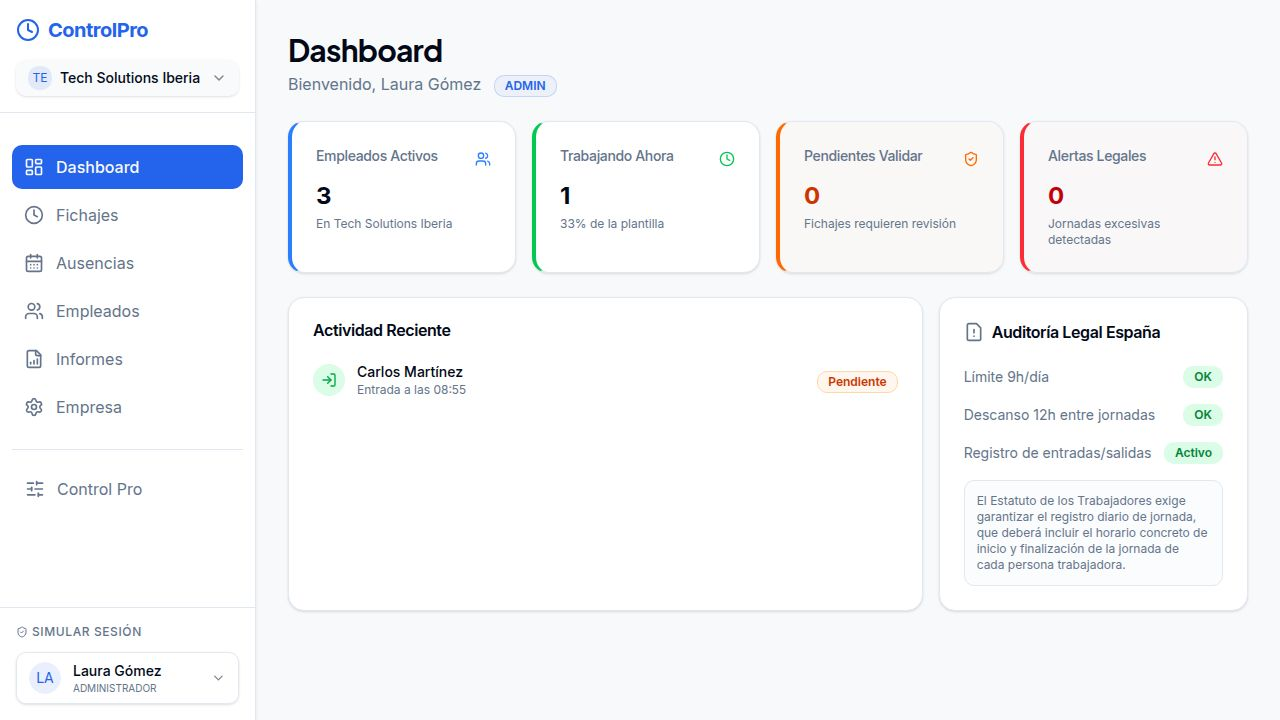
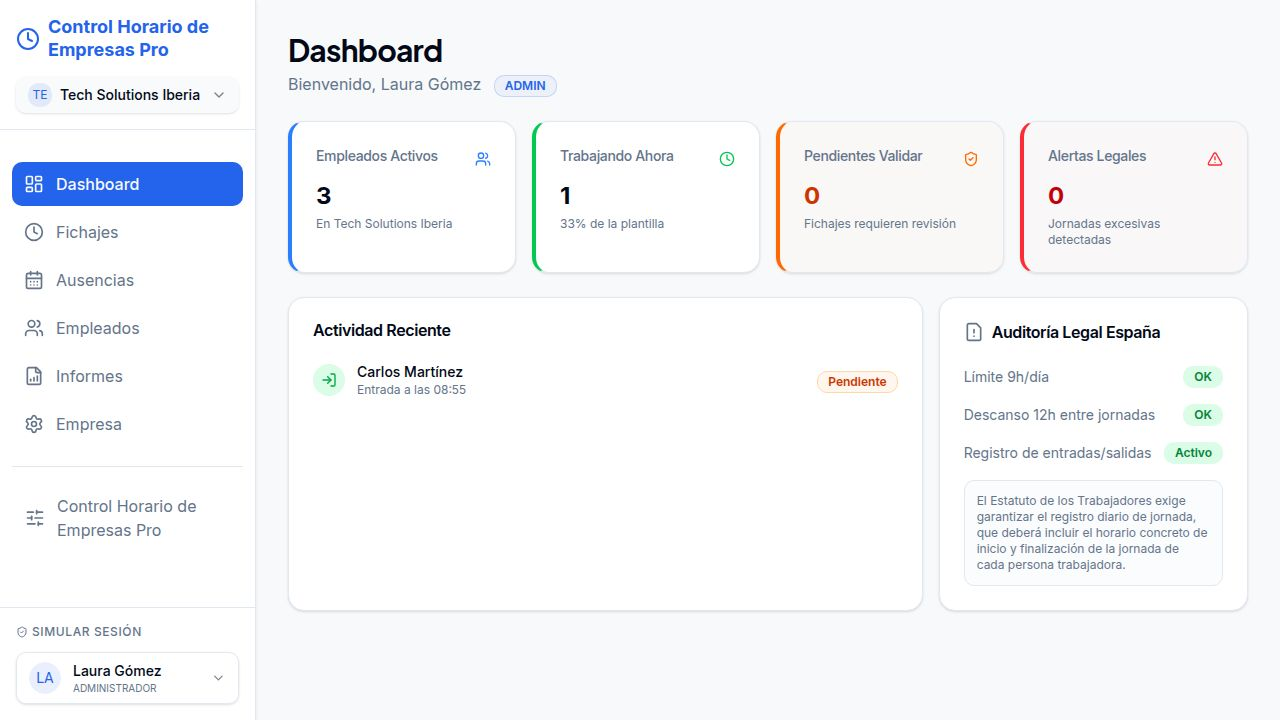
Add employee schedules and secure access to the Pro module
Integrate employee-specific scheduling, enhance time entry logging with actions translated to Spanish, implement a password-protected "Control Horario de Empresas Pro" module, and refine the navigation menu.

Replit-Commit-Author: Agent
Replit-Commit-Session-Id: 719027b1-ccf5-43b5-aaea-f9eb90c4ddaa
Replit-Commit-Checkpoint-Type: full_checkpoint
Replit-Commit-Event-Id: 038b4247-c132-490f-a925-9e4ece964372
Replit-Commit-Screenshot-Url: https://storage.googleapis.com/screenshot-production-us-central1/4b1fff70-26a4-4160-b81a-3a7b542f9264/719027b1-ccf5-43b5-aaea-f9eb90c4ddaa/D9nqyp7
Replit-Helium-Checkpoint-Created: true

diff --git a/client/src/pages/Employees.tsx b/client/src/pages/Employees.tsx
@@ -48,11 +48,42 @@ export default function Employees() {
   const [newEmp, setNewEmp] = useState<Partial<Employee>>({
     name: '', email: '', role: '', department: '', active: true, joinDate: new Date().toISOString().split('T')[0], systemRole: 'employee', weeklyHours: 40
   });
+  
+  const [scheduleType, setScheduleType] = useState<'company' | 'custom'>('company');
+  const [customSchedule, setCustomSchedule] = useState<Partial<Schedule>>({
+    monday: '09:00-14:00,15:00-18:00',
+    tuesday: '09:00-14:00,15:00-18:00',
+    wednesday: '09:00-14:00,15:00-18:00',
+    thursday: '09:00-14:00,15:00-18:00',
+    friday: '08:00-15:00',
+    saturday: '',
+    sunday: ''
+  });
 
   const isSupervisor = currentUser?.systemRole === 'admin' || currentUser?.systemRole === 'supervisor';
 
   const handleAdd = () => {
     if (!activeCompany) return;
+    
+    let assignedScheduleId = schedules?.find(s => s.companyId === activeCompany.id)?.id || '';
+    
+    if (scheduleType === 'custom') {
+      const newSchedule: Schedule = {
+        id: 's' + Date.now(),
+        name: `Horario Personalizado - ${newEmp.name}`,
+        companyId: activeCompany.id,
+        monday: customSchedule.monday || '',
+        tuesday: customSchedule.tuesday || '',
+        wednesday: customSchedule.wednesday || '',
+        thursday: customSchedule.thursday || '',
+        friday: customSchedule.friday || '',
+        saturday: customSchedule.saturday || '',
+        sunday: customSchedule.sunday || ''
+      };
+      setSchedules([...schedules, newSchedule]);
+      assignedScheduleId = newSchedule.id;
+    }
+    
     const emp: Employee = {
       id: 'e' + Date.now(),
       companyId: activeCompany.id,
@@ -62,13 +93,14 @@ export default function Employees() {
       department: newEmp.department || '',
       systemRole: newEmp.systemRole as any || 'employee',
       weeklyHours: newEmp.weeklyHours || 40,
-      scheduleId: schedules?.filter(s => s.companyId === activeCompany.id)[0]?.id || '',
+      scheduleId: assignedScheduleId,
       joinDate: newEmp.joinDate || '',
       active: true,
     };
     setEmployees([...(employees || []), emp]);
     setIsDialogOpen(false);
     setNewEmp({name: '', email: '', role: '', department: '', active: true, joinDate: new Date().toISOString().split('T')[0], systemRole: 'employee', weeklyHours: 40});
+    setScheduleType('company');
     toast({ title: "Empleado añadido", description: "El empleado ha sido registrado correctamente." });
   };
 
@@ -141,6 +173,37 @@ export default function Employees() {
                   <Label>Fecha de Incorporación</Label>
                   <Input type="date" value={newEmp.joinDate} onChange={e => setNewEmp({...newEmp, joinDate: e.target.value})} />
                 </div>
+                
+                <div className="space-y-3 pt-2 border-t">
+                  <Label className="text-base">Configuración de Horario</Label>
+                  <Select value={scheduleType} onValueChange={(v: 'company' | 'custom') => setScheduleType(v)}>
+                    <SelectTrigger><SelectValue /></SelectTrigger>
+                    <SelectContent>
+                      <SelectItem value="company">Horario principal de la empresa</SelectItem>
+                      <SelectItem value="custom">Horario personalizado para este empleado</SelectItem>
+                    </SelectContent>
+                  </Select>
+                  
+                  {scheduleType === 'custom' && (
+                    <div className="grid grid-cols-[80px_1fr] gap-2 items-center bg-secondary/20 p-3 rounded-md text-sm mt-2">
+                      <Label className="text-xs">Lunes</Label>
+                      <Input value={customSchedule.monday} onChange={e => setCustomSchedule({...customSchedule, monday: e.target.value})} className="h-8 text-xs font-mono" />
+                      
+                      <Label className="text-xs">Martes</Label>
+                      <Input value={customSchedule.tuesday} onChange={e => setCustomSchedule({...customSchedule, tuesday: e.target.value})} className="h-8 text-xs font-mono" />
+                      
+                      <Label className="text-xs">Miércoles</Label>
+                      <Input value={customSchedule.wednesday} onChange={e => setCustomSchedule({...customSchedule, wednesday: e.target.value})} className="h-8 text-xs font-mono" />
+                      
+                      <Label className="text-xs">Jueves</Label>
+                      <Input value={customSchedule.thursday} onChange={e => setCustomSchedule({...customSchedule, thursday: e.target.value})} className="h-8 text-xs font-mono" />
+                      
+                      <Label className="text-xs">Viernes</Label>
+                      <Input value={customSchedule.friday} onChange={e => setCustomSchedule({...customSchedule, friday: e.target.value})} className="h-8 text-xs font-mono" />
+                    </div>
+                  )}
+                </div>
+
                 <Button onClick={handleAdd} className="w-full mt-4">Guardar Empleado</Button>
               </div>
             </DialogContent>

diff --git a/client/src/components/Layout.tsx b/client/src/components/Layout.tsx
@@ -1,4 +1,5 @@
 import { Link, useLocation } from "wouter";
+import { useState } from "react";
 import { 
   LayoutDashboard, 
   Users, 
@@ -28,6 +29,7 @@ import { Avatar, AvatarFallback, AvatarImage } from "@/components/ui/avatar";
 
 export function Layout({ children }: { children: React.ReactNode }) {
   const [location] = useLocation();
+  const [sheetOpen, setSheetOpen] = useState(false);
   const { activeCompany, setActiveCompanyId, companies } = useActiveCompany();
   const { currentUser, setCurrentUserId, employees } = useCurrentUser();
 
@@ -49,23 +51,25 @@ export function Layout({ children }: { children: React.ReactNode }) {
         const Icon = item.icon;
         const isActive = location === item.href;
         return (
-          <Link key={item.href} href={item.href}>
-            <div
-              className={`flex items-center space-x-3 px-3 py-2.5 rounded-md cursor-pointer transition-colors ${
-                isActive
-                  ? "bg-primary text-primary-foreground font-medium"
-                  : "text-muted-foreground hover:bg-secondary hover:text-foreground"
-              }`}
-            >
-              <Icon className="w-5 h-5" />
-              <span>{item.label}</span>
-            </div>
-          </Link>
+          <div key={item.href} onClick={() => setSheetOpen(false)}>
+            <Link href={item.href}>
+              <div
+                className={`flex items-center space-x-3 px-3 py-2.5 rounded-md cursor-pointer transition-colors ${
+                  isActive
+                    ? "bg-primary text-primary-foreground font-medium"
+                    : "text-muted-foreground hover:bg-secondary hover:text-foreground"
+                }`}
+              >
+                <Icon className="w-5 h-5" />
+                <span>{item.label}</span>
+              </div>
+            </Link>
+          </div>
         );
       })}
       
       {isAdmin && (
-        <div className="pt-4 mt-4 border-t">
+        <div className="pt-4 mt-4 border-t" onClick={() => setSheetOpen(false)}>
           <Link href="/control-pro">
             <div
               className={`flex items-center space-x-3 px-3 py-2.5 rounded-md cursor-pointer transition-colors ${
@@ -74,8 +78,8 @@ export function Layout({ children }: { children: React.ReactNode }) {
                   : "text-muted-foreground hover:bg-secondary hover:text-foreground border border-transparent"
               }`}
             >
-              <SlidersHorizontal className="w-5 h-5" />
-              <span>Control Pro</span>
+              <SlidersHorizontal className="w-5 h-5 shrink-0" />
+              <span>Control Horario de Empresas Pro</span>
             </div>
           </Link>
         </div>
@@ -88,9 +92,9 @@ export function Layout({ children }: { children: React.ReactNode }) {
       {/* Desktop Sidebar */}
       <aside className="hidden md:flex flex-col w-64 bg-card border-r shadow-sm">
         <div className="p-4 border-b flex flex-col gap-4">
-          <div className="flex items-center gap-2 text-primary font-bold text-xl tracking-tight">
-            <Clock className="w-6 h-6" />
-            <span>ControlPro</span>
+          <div className="flex items-center gap-2 text-primary font-bold text-lg leading-tight">
+            <Clock className="w-6 h-6 shrink-0" />
+            <span>Control Horario de Empresas Pro</span>
           </div>
           
           {isAdmin ? (
@@ -167,9 +171,9 @@ export function Layout({ children }: { children: React.ReactNode }) {
         <header className="md:hidden flex items-center justify-between p-4 bg-card border-b">
           <div className="flex items-center gap-2 text-primary font-bold text-lg">
             <Clock className="w-5 h-5" />
-            <span>ControlPro</span>
+            <span className="truncate">Control Horario de Empresas Pro</span>
           </div>
-          <Sheet>
+          <Sheet open={sheetOpen} onOpenChange={setSheetOpen}>
             <SheetTrigger asChild>
               <Button variant="ghost" size="icon">
                 <Menu className="w-6 h-6" />
@@ -177,9 +181,9 @@ export function Layout({ children }: { children: React.ReactNode }) {
             </SheetTrigger>
             <SheetContent side="left" className="w-64 p-0">
               <div className="p-4 border-b flex flex-col gap-4">
-                <div className="flex items-center gap-2 text-primary font-bold text-xl">
-                  <Clock className="w-6 h-6" />
-                  <span>ControlPro</span>
+                <div className="flex items-center gap-2 text-primary font-bold text-lg leading-tight">
+                  <Clock className="w-6 h-6 shrink-0" />
+                  <span>Control Horario de Empresas Pro</span>
                 </div>
               </div>
               <div className="px-3">

diff --git a/client/src/pages/TimeEntries.tsx b/client/src/pages/TimeEntries.tsx
@@ -38,7 +38,7 @@ export default function TimeEntries() {
       clockIn: timeStr,
       type: 'regular',
       status: 'pending',
-      history: [{ timestamp: new Date().toISOString(), action: 'Clock In', by: currentUser.id }]
+      history: [{ timestamp: new Date().toISOString(), action: 'Entrada', by: currentUser.id }]
     };
     setEntries([newEntry, ...(entries || [])]);
     toast({ title: "Fichaje iniciado", description: `Hora: ${timeStr}` });
@@ -51,7 +51,7 @@ export default function TimeEntries() {
       e.id === activeEntry.id ? { 
         ...e, 
         clockOut: timeStr,
-        history: [...(e.history||[]), { timestamp: new Date().toISOString(), action: 'Clock Out', by: currentUser.id }]
+        history: [...(e.history||[]), { timestamp: new Date().toISOString(), action: 'Salida', by: currentUser.id }]
       } : e
     );
     setEntries(updated);
@@ -63,7 +63,7 @@ export default function TimeEntries() {
       e.id === id ? { 
         ...e, 
         employeeSignature: `Firmado por ${currentUser.name} el ${new Date().toLocaleString()}`,
-        history: [...(e.history||[]), { timestamp: new Date().toISOString(), action: 'Signed', by: currentUser.id }]
+        history: [...(e.history||[]), { timestamp: new Date().toISOString(), action: 'Firma', by: currentUser.id }]
       } : e
     );
     setEntries(updated);
@@ -77,7 +77,7 @@ export default function TimeEntries() {
         ...e, 
         status: 'validated' as const,
         validatedBy: currentUser.id,
-        history: [...(e.history||[]), { timestamp: new Date().toISOString(), action: 'Validated', by: currentUser.id }]
+        history: [...(e.history||[]), { timestamp: new Date().toISOString(), action: 'Validación', by: currentUser.id }]
       } : e
     );
     setEntries(updated);
@@ -93,6 +93,25 @@ export default function TimeEntries() {
     const h = Math.floor(diffMins / 60);
     const m = diffMins % 60;
     return `${h}h ${m}m`;
+  };
+
+  const getExtraHours = (inTime: string, outTime?: string, weeklyHours: number = 40) => {
+    if (!outTime) return null;
+    const [inH, inM] = inTime.split(':').map(Number);
+    const [outH, outM] = outTime.split(':').map(Number);
+    let diffMins = (outH * 60 + outM) - (inH * 60 + inM);
+    if (diffMins < 0) diffMins += 24 * 60;
+    
+    // Asumimos 5 días laborales para calcular las horas diarias estimadas
+    const expectedDailyMins = (weeklyHours / 5) * 60;
+    const extraMins = diffMins - expectedDailyMins;
+    
+    if (extraMins > 0) {
+      const h = Math.floor(extraMins / 60);
+      const m = Math.floor(extraMins % 60);
+      return `+${h}h ${m}m extra`;
+    }
+    return null;
   };
 
   const visibleEntries = (entries || [])
@@ -167,7 +186,14 @@ export default function TimeEntries() {
                       {canValidate && <TableCell>{emp?.name}</TableCell>}
                       <TableCell>
                         <div className="text-sm">{entry.clockIn} - {entry.clockOut || '...'}</div>
-                        <div className="text-xs text-muted-foreground">{getDuration(entry.clockIn, entry.clockOut)}</div>
+                        <div className="flex items-center gap-2 mt-1">
+                          <span className="text-xs text-muted-foreground">{getDuration(entry.clockIn, entry.clockOut)}</span>
+                          {entry.clockOut && getExtraHours(entry.clockIn, entry.clockOut, emp?.weeklyHours || 40) && (
+                            <Badge variant="secondary" className="text-[10px] bg-orange-100 text-orange-700 hover:bg-orange-100 border-orange-200 py-0 h-4">
+                              {getExtraHours(entry.clockIn, entry.clockOut, emp?.weeklyHours || 40)}
+                            </Badge>
+                          )}
+                        </div>
                       </TableCell>
                       <TableCell>
                         {entry.status === 'validated' ? 

diff --git a/client/src/pages/ControlPro.tsx b/client/src/pages/ControlPro.tsx
@@ -28,13 +28,45 @@ export default function ControlPro() {
   const [viewHistory, setViewHistory] = useState<TimeEntry['history']>(null);
   const [employeeToDelete, setEmployeeToDelete] = useState<Employee | null>(null);
 
+  const [isAuthenticated, setIsAuthenticated] = useState(false);
+  const [password, setPassword] = useState("");
+
   // Security check
   if (currentUser?.systemRole !== 'admin') {
     return (
       <div className="flex flex-col items-center justify-center h-full p-12 text-center">
         <ShieldAlert className="w-16 h-16 text-destructive mb-4" />
         <h2 className="text-2xl font-bold">Acceso Denegado</h2>
-        <p className="text-muted-foreground mt-2">El módulo Control Pro está reservado exclusivamente para administradores del sistema.</p>
+        <p className="text-muted-foreground mt-2">El módulo Control Horario de Empresas Pro está reservado exclusivamente para administradores del sistema.</p>
+      </div>
+    );
+  }
+
+  if (!isAuthenticated) {
+    return (
+      <div className="flex flex-col items-center justify-center h-full p-12 text-center max-w-md mx-auto mt-20">
+        <ShieldAlert className="w-16 h-16 text-primary mb-4" />
+        <h2 className="text-2xl font-bold">Control Horario de Empresas Pro</h2>
+        <p className="text-muted-foreground mt-2 mb-6">Por motivos de seguridad, introduce la contraseña de administrador para acceder a este módulo avanzado.</p>
+        <div className="w-full flex gap-2">
+          <Input 
+            type="password" 
+            placeholder="Contraseña" 
+            value={password}
+            onChange={e => setPassword(e.target.value)}
+            onKeyDown={e => {
+              if (e.key === 'Enter') {
+                if (password === 'admin' || password === 'admin123' || password === '1234') setIsAuthenticated(true);
+                else toast({ title: "Contraseña incorrecta", variant: "destructive" });
+              }
+            }}
+          />
+          <Button onClick={() => {
+            if (password === 'admin' || password === 'admin123' || password === '1234') setIsAuthenticated(true);
+            else toast({ title: "Contraseña incorrecta", variant: "destructive" });
+          }}>Entrar</Button>
+        </div>
+        <p className="text-xs text-muted-foreground mt-4">Nota de prototipo: Utiliza "admin" como contraseña.</p>
       </div>
     );
   }
@@ -89,7 +121,7 @@ export default function ControlPro() {
       <div className="flex justify-between items-center bg-primary/5 p-4 rounded-xl border border-primary/20">
         <div>
           <h1 className="text-2xl font-bold tracking-tight text-primary flex items-center gap-2">
-            <ShieldAlert className="w-6 h-6" /> Control Pro: Auditoría y Edición
+            <ShieldAlert className="w-6 h-6" /> Control Horario de Empresas Pro
           </h1>
           <p className="text-sm text-muted-foreground mt-1">Todos los cambios realizados aquí quedan registrados en el log de auditoría legal.</p>
         </div>
@@ -199,7 +231,7 @@ export default function ControlPro() {
       {/* Edit Employee Dialog */}
       <Dialog open={!!editEmployee} onOpenChange={(open) => !open && setEditEmployee(null)}>
         <DialogContent className="max-w-2xl">
-          <DialogHeader><DialogTitle>Control Pro: Editar Empleado</DialogTitle></DialogHeader>
+          <DialogHeader><DialogTitle>Control Horario de Empresas Pro: Editar Empleado</DialogTitle></DialogHeader>
           {editEmployee && (
             <div className="grid grid-cols-2 gap-4 py-4">
               <div className="space-y-2"><Label>Nombre</Label><Input value={editEmployee.name} onChange={e => setEditEmployee({...editEmployee, name: e.target.value})} /></div>
